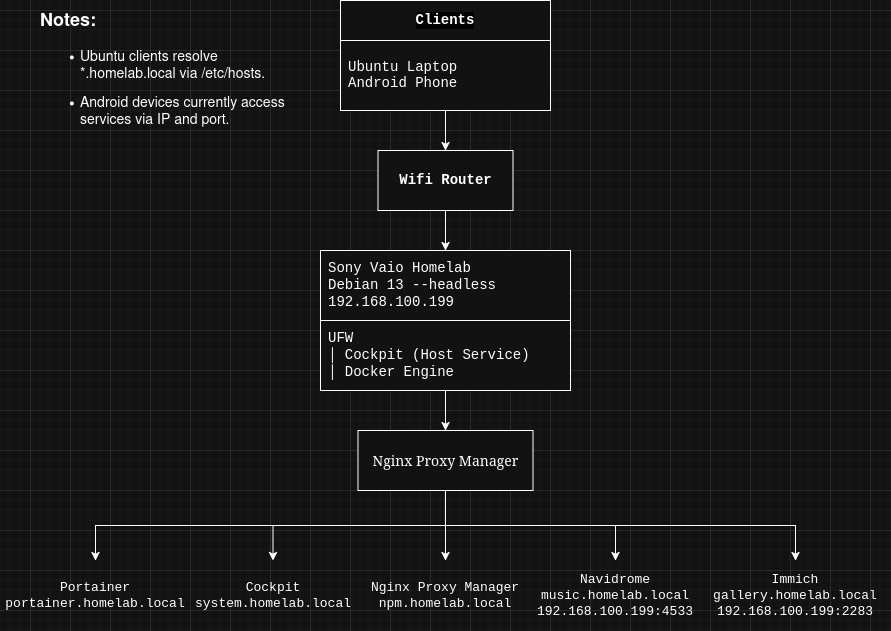
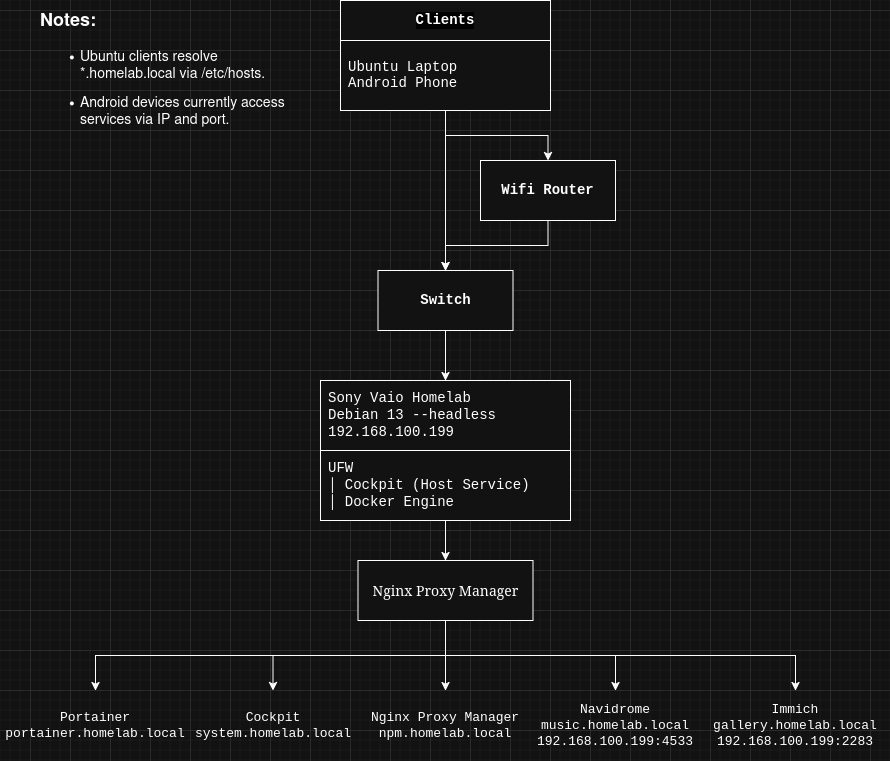
docs(readme): update for gigabit switch

diff --git a/README.md b/README.md
@@ -245,18 +245,66 @@ Although zram helps reduce memory pressure, RAM remains the primary bottleneck o
 
 ---
 
-### Network Bottlenecks
+### ~~Network Bottlenecks~~
 
-The Sony Vaio relies on a Wi-Fi 4 (802.11n) wireless adapter from 2012.
+~~The Sony Vaio relies on a Wi-Fi 4 (802.11n) wireless adapter from 2012.~~
 
-Current limitations include:
+~~Current limitations include:~~
 
-- Lower throughput compared to modern Gigabit Ethernet
-- Higher latency and less stable transfers
-- Slower photo and video uploads to Immich
-- Reduced NFS file transfer performance
+- ~~Lower throughput compared to modern Gigabit Ethernet~~
+- ~~Higher latency and less stable transfers~~
+- ~~Slower photo and video uploads to Immich~~
+- ~~Reduced NFS file transfer performance~~
 
-Additionally, the ISP-provided router handles both internet traffic and local network traffic, which may become a bottleneck during large file transfers.
+~~Additionally, the ISP-provided router handles both internet traffic and local network traffic, which may become a bottleneck during large file transfers.~~
+
+---
+
+### Storage & Mechanical HDD Bottlenecks
+
+After upgrading the network to Gigabit Ethernet, the network is no longer the limiting factor during file transfers. The next bottleneck appears at the storage layer.
+
+- **The Main Limitation**
+
+  The NAS storage is backed by a legacy 750GB Western Digital hard drive (SATA II, 5200 RPM). During large file transfers, the drive can sustain only about **32–36 MB/s** of sequential write throughput.
+
+- **Why CPU Wait Time Becomes High**
+
+  At first glance, seeing CPU **I/O Wait (`wai`)** values reach **80–90%** may look alarming, but it does not indicate that the CPU is overloaded.
+
+  In reality, the Gigabit network is capable of delivering data at roughly **117 MB/s**, while the HDD can only write at around **35 MB/s**. The CPU spends most of its time waiting for the disk to finish writing incoming data, which causes the high I/O wait percentage.
+
+- **How Linux Handles the Mismatch**
+
+  Linux automatically uses available RAM as a temporary write buffer. Incoming network traffic is first stored in memory and then gradually flushed to disk.
+
+  Once the write cache begins to fill up, the kernel intelligently slows down incoming network traffic to match the maximum write speed of the HDD. This prevents memory exhaustion, maintains system stability, and ensures data integrity.
+
+- **Real-World Impact**
+
+  Even though the network can theoretically transfer files at over **100 MB/s**, actual copy speeds are limited by the mechanical hard drive to approximately **35 MB/s**.
+
+  This behavior is completely normal and expected for older low-RPM HDDs. The server remains healthy, responsive, and stable—the storage device simply becomes the slowest component in the data path.
+
+#### Data Flow Overview
+
+```text
+Client PC
+    │
+    │ ~117 MB/s (Gigabit Ethernet)
+    ▼
+Linux RAM Cache
+    │
+    │ Buffered and throttled by kernel
+    ▼
+750GB WD HDD (5200 RPM)
+    │
+    └─ ~32–36 MB/s sustained write speed
+```
+
+As a result, now the maximum practical transfer speed is determined by the HDD rather than the network infrastructure.
+
+---
 
 ### DNS and Service Discovery
 
@@ -279,8 +327,8 @@ As a result:
 ## Future Plans
 
 - Deploy AdGuard Home for local DNS resolution.
-- Upgrade RAM to 16GB (if supported).
-- Add a dedicated Gigabit switch to reduce network bottlenecks and improve local file transfer performance.
+- Upgrade RAM to 16GB.
+- ~~[Add a dedicated Gigabit switch to reduce network bottlenecks and improve local file transfer performance.](/update/01-integrate-gigabit-switch-network.md)~~
 - Add a GitHub Actions self-hosted runner.
 - Run lightweight local AI models (Qwen2.5-Coder 3B).
 